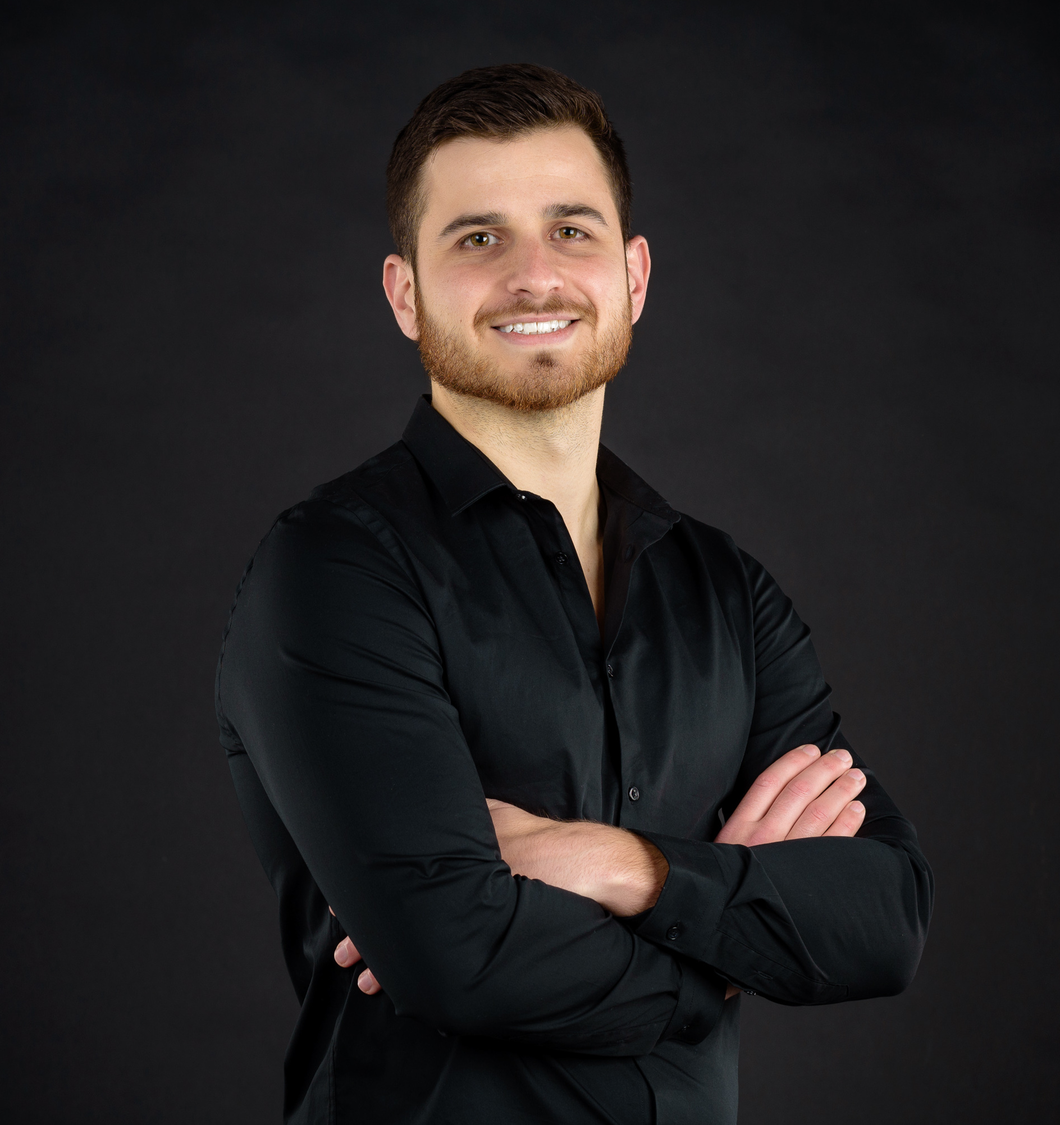
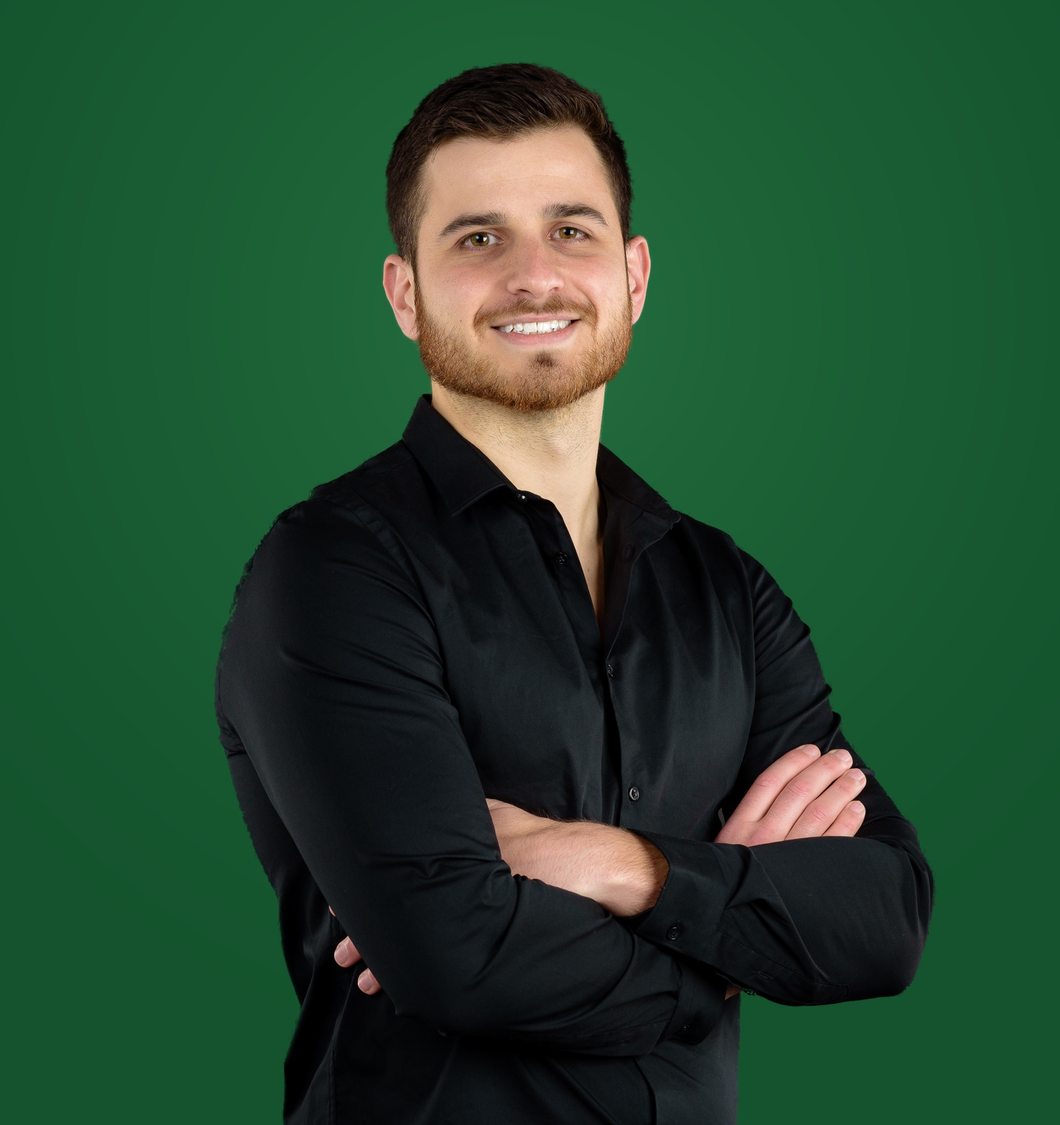
feat(about): new profile photo with green background

diff --git a/docs/AI_DESIGN_LOG.md b/docs/AI_DESIGN_LOG.md
@@ -31,6 +31,12 @@ Context for the next AI design iteration. Read this + `SITE_INFO.md` first.
 
 ## Change log
 
+### 2026-10-25 — New profile photo (green background)
+- Replaced `astro-site/public/images/darius.jpg` (used by `About.astro`) in place,
+  same 1888×2004 size. Photos dropped into root `assets/` get wiped by
+  `npm run publish` (it replaces root `assets/` from `dist/`), so copy them into
+  `astro-site/public/` first. `assets/darius-mann.jpg` is an unused old copy.
+
 ### 2026-10-16 — Unpublish the Medizinfuchs case study (code kept)
 - Nav dropdown + footer link removed; both `/case-studies/medizinfuchs` and
   `/en/case-studies/medizinfuchs` are gone from the build and now 404.
